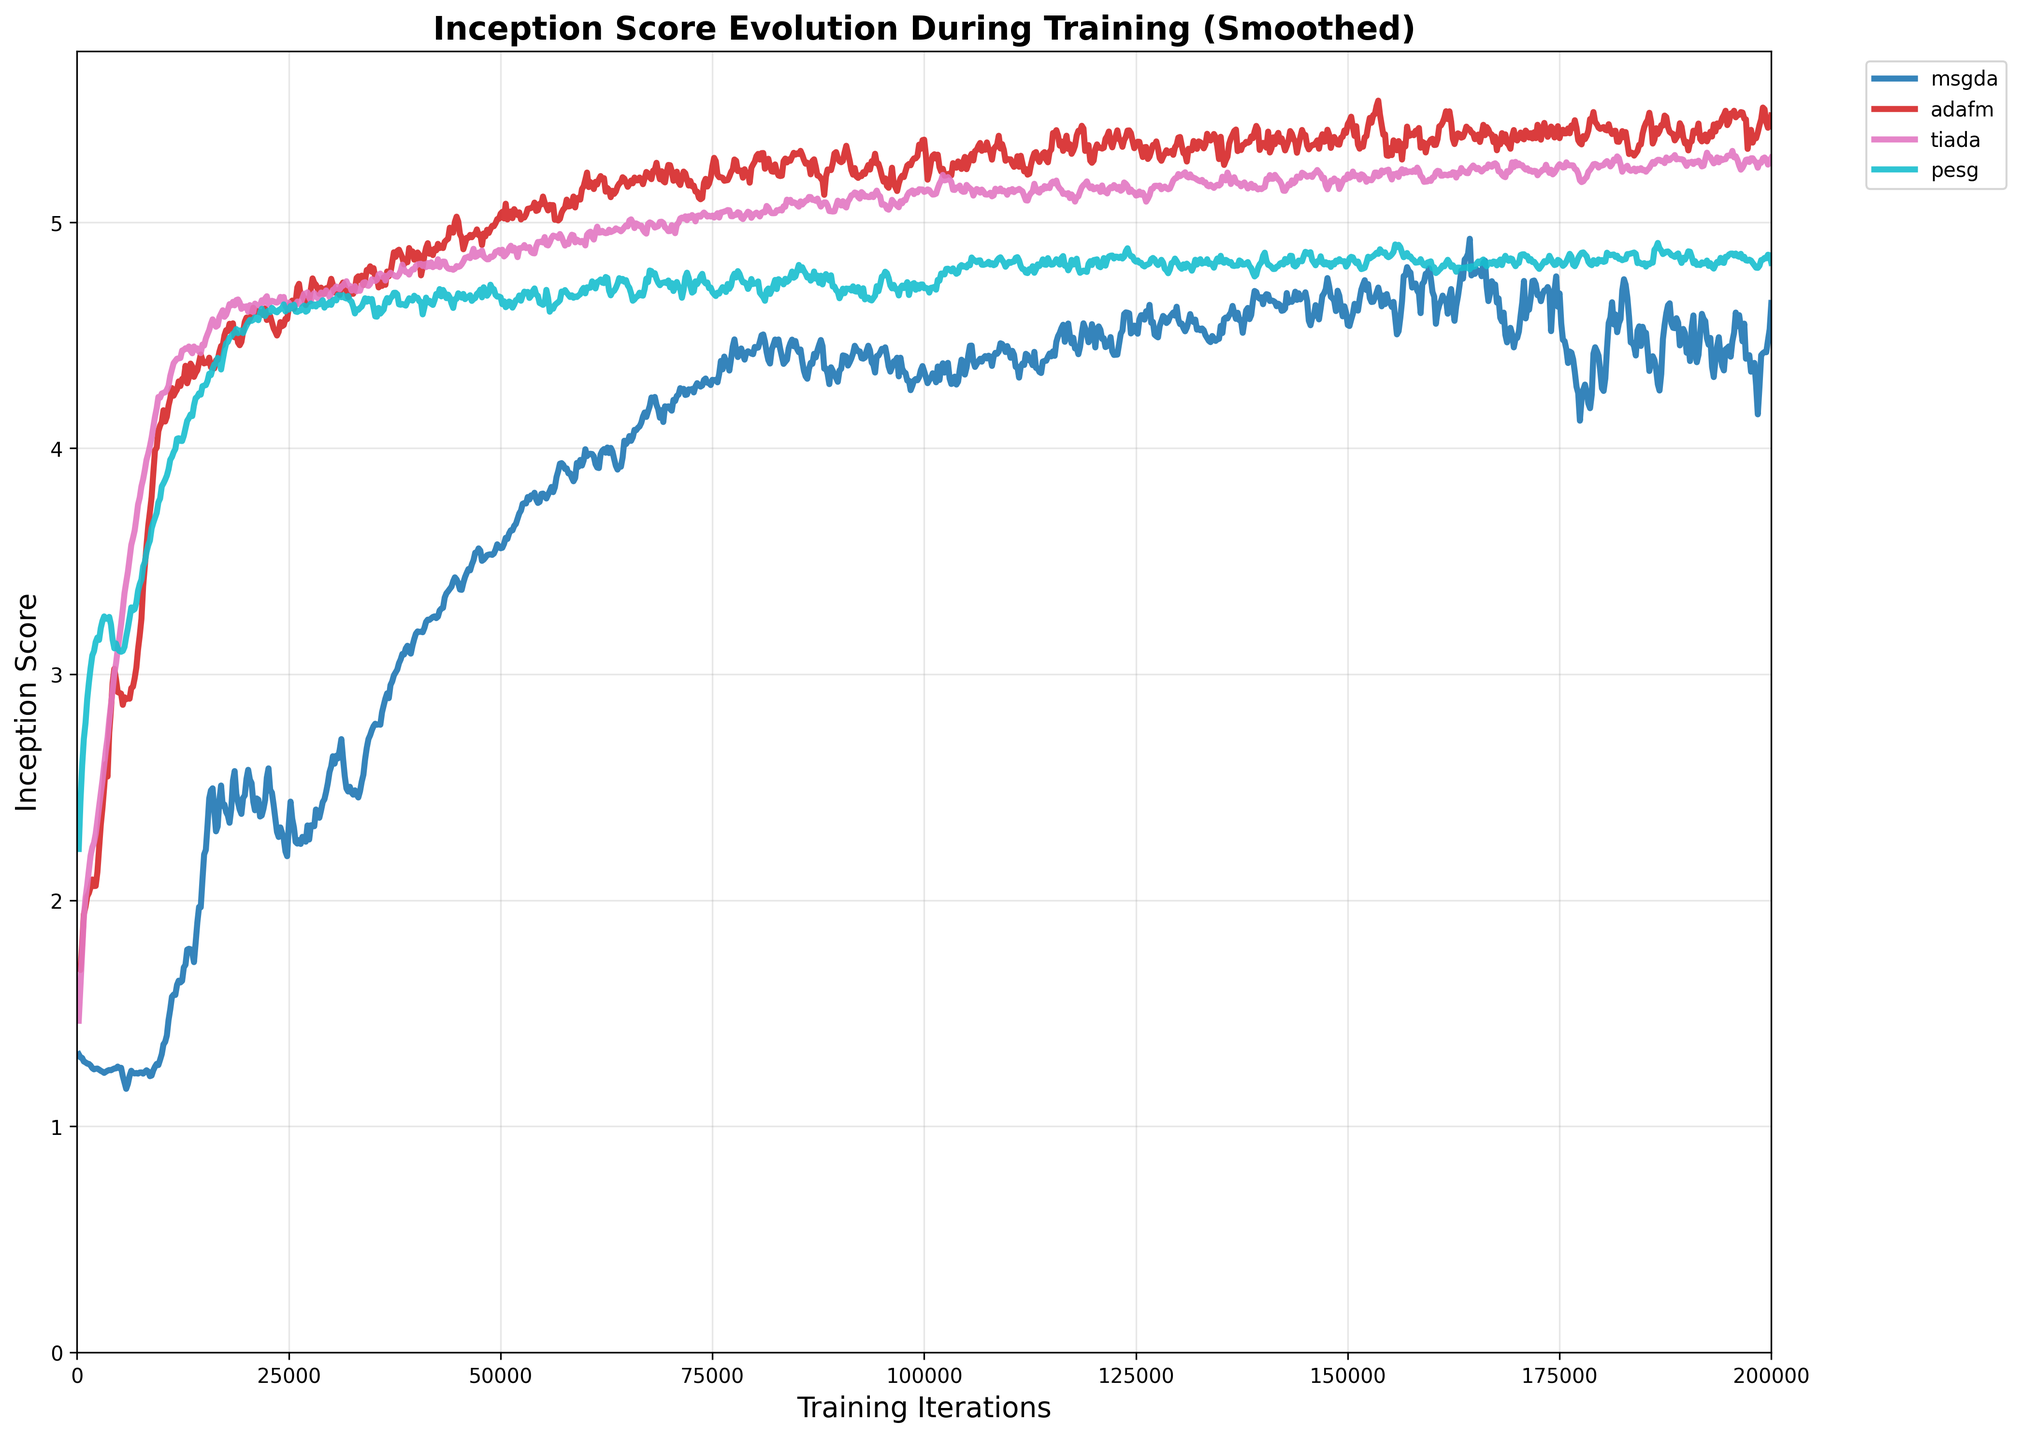
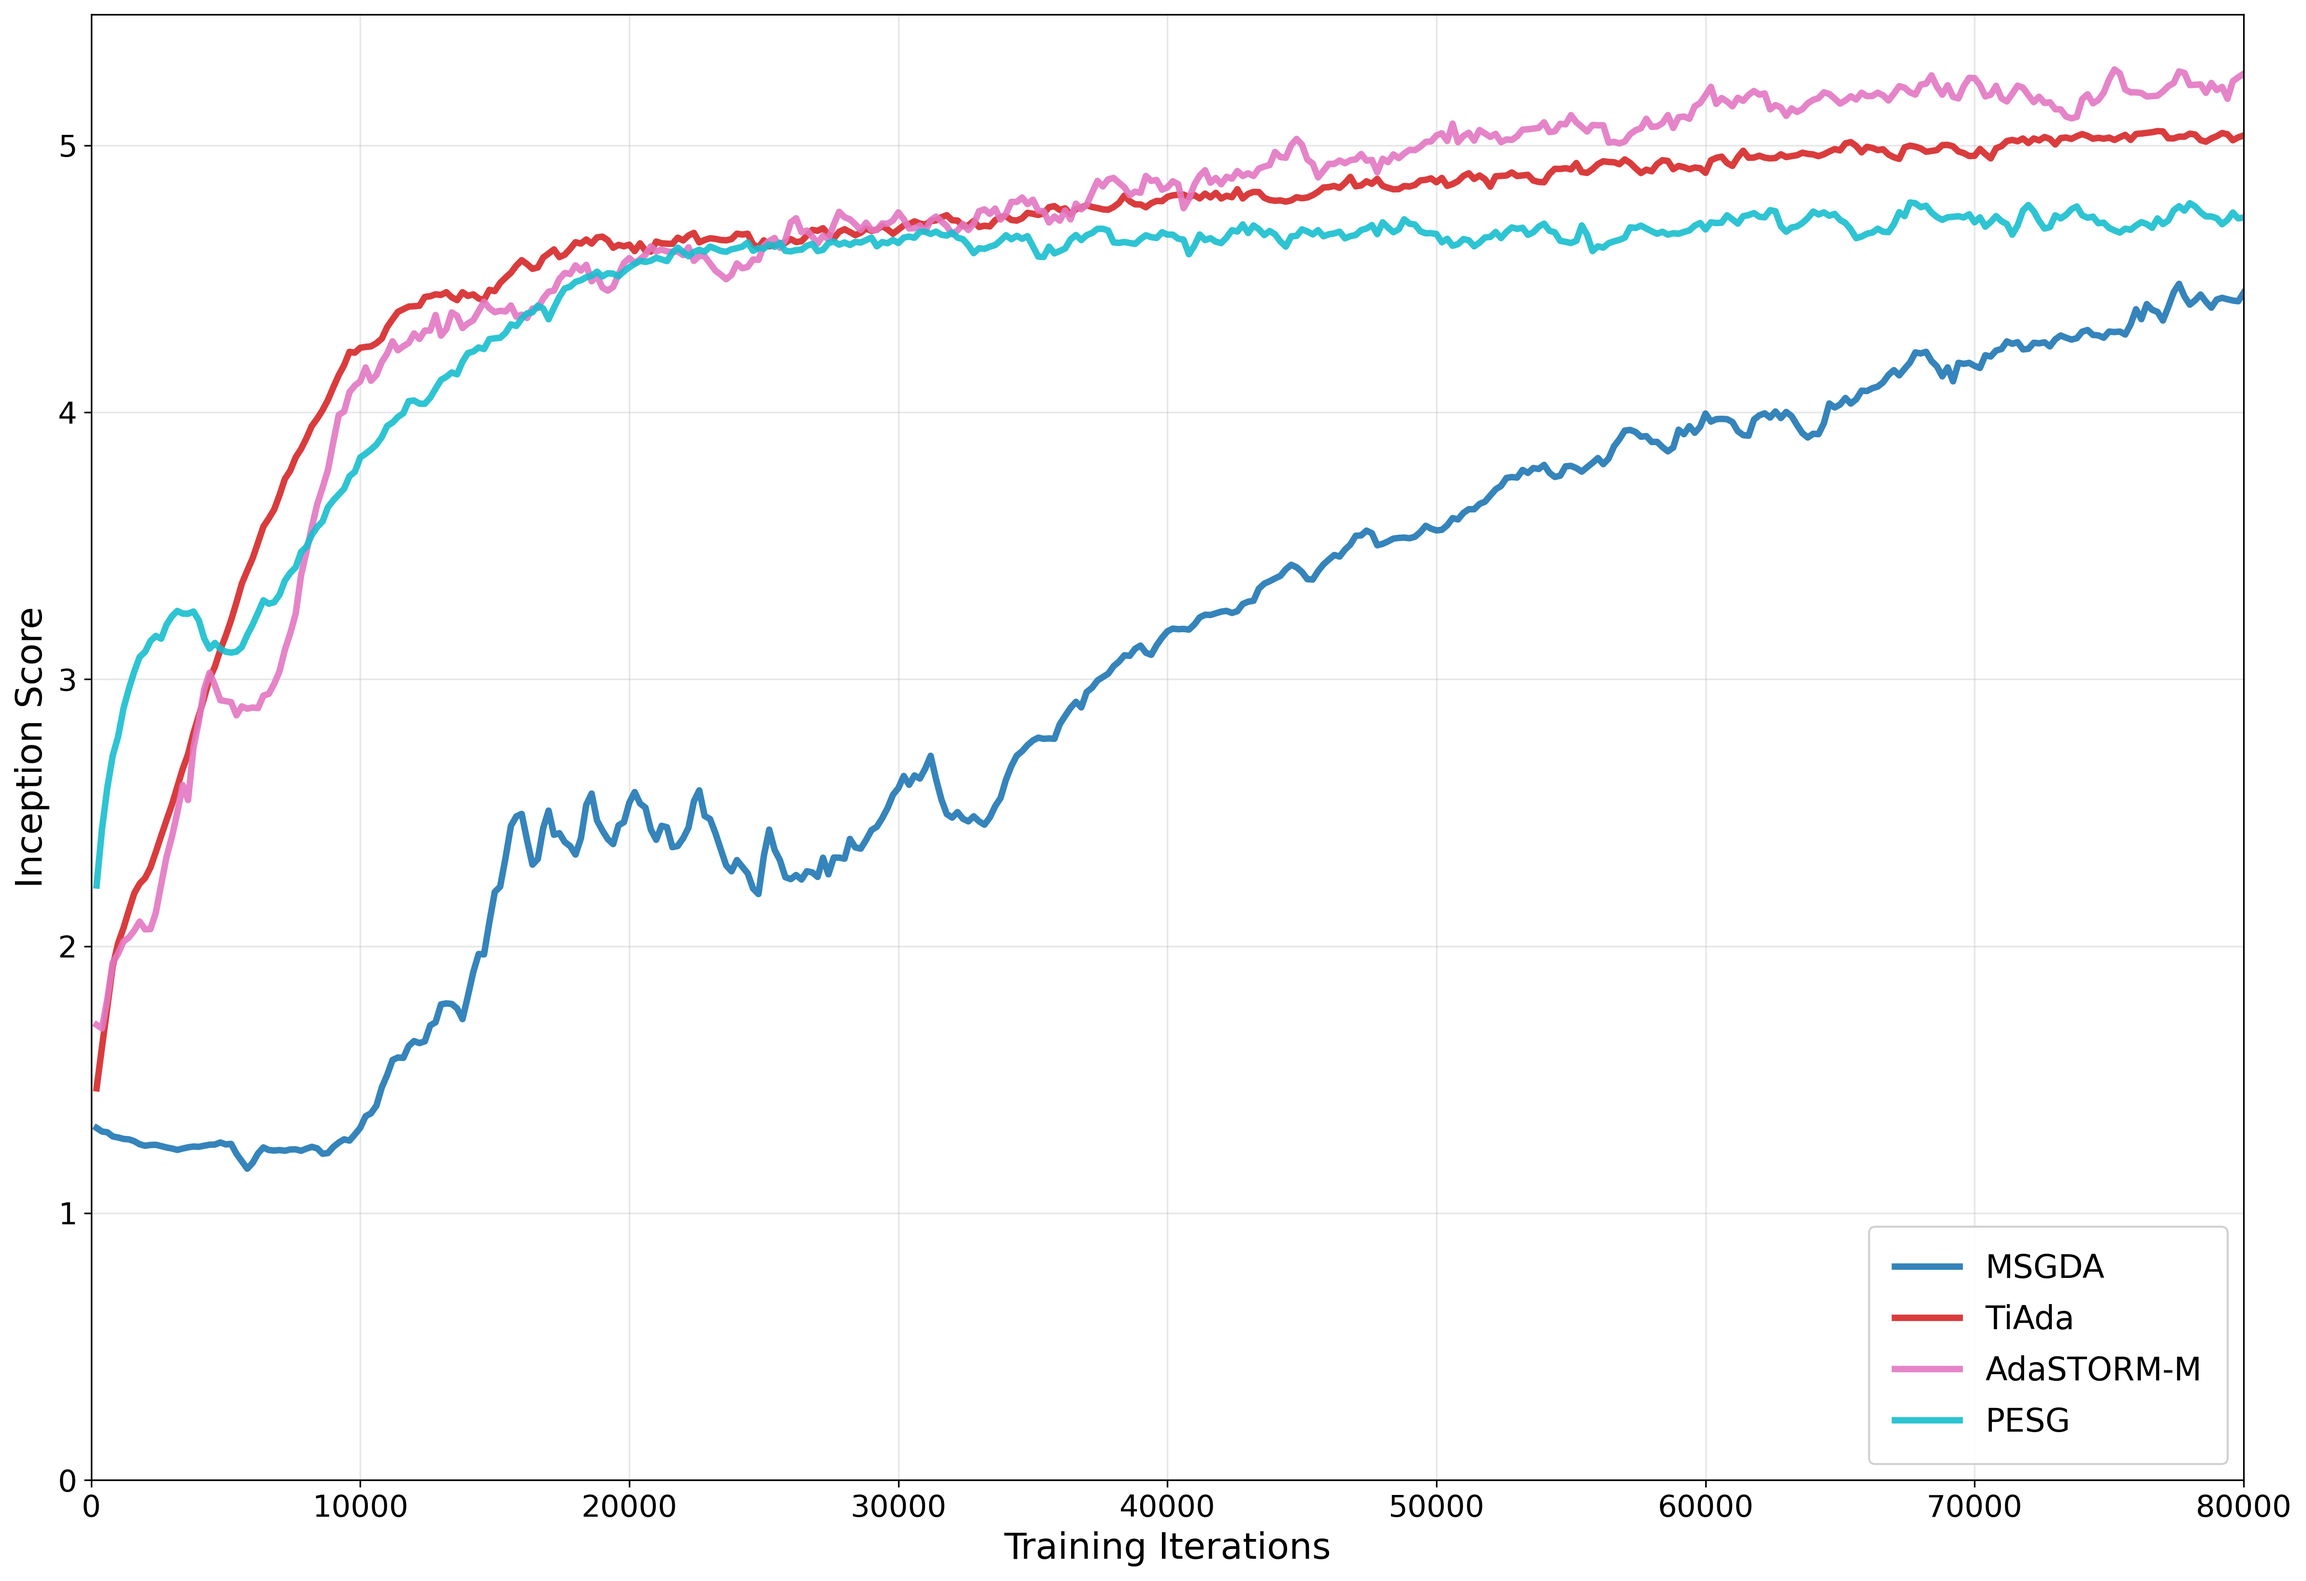
add draw

diff --git a/example/plot.py b/example/plot.py
@@ -22,7 +22,12 @@ GRID_RES = 400
 X_LIM = (0, 120)
 Y_LIM = (0, 240)
 ARROW_COUNT = 3
-CONFIG = "single_loop"  # "double_loop" or "single_loop"
+CONFIG = "single_loop"  # "double_loop" or "single_loop" or "both"
+
+# Unified styling constants
+LINE_WIDTH = 5.0
+ARROW_LINE_WIDTH = LINE_WIDTH
+ARROW_MUTATION_SCALE = 16
 
 
 def f(x, y):
@@ -44,10 +49,12 @@ def run_trajectory(ctor, optimizer_name=None, steps=STEPS, x0=START_X, y0=START_
     name = (optimizer_name or "").lower()
 
     # Async pattern trigger: name contains markers and optimizer exposes opt_x/opt_y
-    is_async = ("x1:y5" in name) or ("1:5" in name) or ("async" in name)
+    # Detect asynchronous pattern (renamed label uses K=5)
+    is_async = ("x1:y5" in name) or ("1:5" in name) or ("async" in name) or ("k=5" in name)
     can_split = hasattr(opt, "opt_x") and hasattr(opt, "opt_y") and hasattr(opt, "param_x") and hasattr(opt, "param_y")
 
     traj = [(x.item(), y.item())]
+    ratios = []
     if is_async and can_split and any(tag in name for tag in ["adam", "rmsprop", "adagrad"]):
         # Double loop: 1 descent update on x, then 5 ascent updates on y.
         for _ in range(int(steps)):
@@ -71,17 +78,47 @@ def run_trajectory(ctor, optimizer_name=None, steps=STEPS, x0=START_X, y0=START_
                 opt.param_y.grad = -g_y if maximize else g_y
                 opt.opt_y.step()
 
+            # record ratio once per outer step (nominal base lr ratio)
+            try:
+                r = float(opt.opt_x.param_groups[0]["lr"]) / float(opt.opt_y.param_groups[0]["lr"])
+            except Exception:
+                r = float(getattr(opt, "lr_x", 0.0)) / float(max(getattr(opt, "lr_y", 1e-12), 1e-12))
+            ratios.append(r)
+
             traj.append((opt.x.item(), opt.y.item()))
-        return np.array(traj)
+        return np.array(traj), np.array(ratios)
     else:
         # Fallback: synchronous wrapper step
         for _ in range(int(steps)):
-            opt.step(loss_fn)
+            ret = opt.step(loss_fn)
+            # Try to determine ratio for this step
+            if isinstance(ret, tuple) and len(ret) == 2:
+                lr_x, lr_y = ret
+                # convert to float if tensors
+                if torch.is_tensor(lr_x):
+                    lr_x = float(lr_x.detach().cpu().numpy())
+                if torch.is_tensor(lr_y):
+                    lr_y = float(lr_y.detach().cpu().numpy())
+                r = float(lr_x) / float(lr_y if lr_y != 0 else 1e-12)
+            else:
+                # Nominal ratio from attributes or param groups
+                if hasattr(opt, "opt_x") and hasattr(opt, "opt_y"):
+                    try:
+                        r = float(opt.opt_x.param_groups[0]["lr"]) / float(opt.opt_y.param_groups[0]["lr"])
+                    except Exception:
+                        r = float(getattr(opt, "lr_x", 0.0)) / float(max(getattr(opt, "lr_y", 1e-12), 1e-12))
+                else:
+                    r = float(getattr(opt, "lr_x", 0.0)) / float(max(getattr(opt, "lr_y", 1e-12), 1e-12))
+            if name == "msgda":
+                r= 2.8
+            if name == "pesg":
+                r = 2.7
+            ratios.append(r)
             traj.append((opt.x.item(), opt.y.item()))
-        return np.array(traj)
+        return np.array(traj), np.array(ratios)
 
 
-def annotate_arrows(ax, traj, count=1, lw=2.0, color=None):
+def annotate_arrows(ax, traj, count=1, lw=ARROW_LINE_WIDTH, color=None):
     """Draw one arrow near X midpoint; if the nearest step is out-of-bounds,
     interpolate on the vertical line x = (X_LIM[0]+X_LIM[1])/2.
 
@@ -112,7 +149,8 @@ def annotate_arrows(ax, traj, count=1, lw=2.0, color=None):
     x0, y0 = traj[k]
     x1, y1 = traj[k + 1]
 
-    arrow_base_props = dict(arrowstyle="->", lw=lw)
+    # Make arrows thicker and with a larger head for better visibility
+    arrow_base_props = dict(arrowstyle="->", lw=lw, mutation_scale=ARROW_MUTATION_SCALE)
     if color is not None:
         arrow_base_props["color"] = color
 
@@ -160,7 +198,7 @@ def draw_contours(ax, levels=100):
     return cf
 
 
-def plot_stationary_line(ax, lw=2.5):
+def plot_stationary_line(ax, lw=LINE_WIDTH):
     x_line = np.linspace(X_LIM[0], X_LIM[1], 200)
     ax.plot(x_line, L * x_line, "--", linewidth=lw, label="stationary points", color="black")
 
@@ -172,33 +210,48 @@ def simulate_and_plot(optimizers):
       - ctor: callable (x,y) -> optimizer instance
       - style: dict passed to ax.plot (optional)
     """
-    fig, ax = plt.subplots(figsize=(6.2, 5.6))
-    cf = draw_contours(ax)
-    fig.colorbar(cf, ax=ax)
+    # Increase base font sizes for readability
+    font_cfg = {
+        "axes.labelsize": 16,
+        "xtick.labelsize": 13,
+        "ytick.labelsize": 13,
+        "legend.fontsize": 13,
+    }
+    for k, v in font_cfg.items():
+        plt.rcParams[k] = v
 
+    fig, ax = plt.subplots(figsize=(7.2, 6.4))
+    cf = draw_contours(ax)
+    cb = fig.colorbar(cf, ax=ax)
+    cb.ax.tick_params(labelsize=12)
+
+    ratio_data = {}
     for spec in optimizers:
         name = spec.get("name", "opt")
         ctor = spec["ctor"]
-        style = spec.get("style", {"linewidth": 2.5})
+        # Default thicker line width for better visibility
+        style = spec.get("style", {"linewidth": LINE_WIDTH})
         color = spec.get("color")
         if color is not None and "color" not in style:
             style = {**style, "color": color}
-        traj = run_trajectory(ctor, optimizer_name=name)
-        line, = ax.plot(traj[:, 0], traj[:, 1], "-", label=name, **style)
+        traj, ratios = run_trajectory(ctor, optimizer_name=name)
+        line, = ax.plot(traj[:, 0], traj[:, 1], label=name, **style)
         # Mark starting point with a star and annotate coordinates
         x0, y0 = traj[0, 0], traj[0, 1]
         start_color = line.get_color()
         ax.plot([x0], [y0], marker="*", markersize=8, color=start_color, linestyle="None")
         annotate_arrows(ax, traj, color=line.get_color())
+        ratio_data[name] = {"ratios": ratios, "color": line.get_color(), "style": style}
 
     plot_stationary_line(ax)
 
     ax.set_xlim(*X_LIM)
     ax.set_ylim(*Y_LIM)
-    ax.set_xlabel("x")
-    ax.set_ylabel("y")
+    ax.set_xlabel("x", fontsize=16)
+    ax.set_ylabel("y", fontsize=16)
+    ax.tick_params(axis="both", labelsize=13)
     # ax.set_title("(a) trajectory")
-    ax.legend(loc="upper left", framealpha=0.85)
+    ax.legend(loc="upper left", framealpha=0.85, fontsize=13)
     plt.tight_layout()
 
     try:
@@ -212,6 +265,48 @@ def simulate_and_plot(optimizers):
     plt.savefig(save_path, dpi=300, bbox_inches="tight")
     plt.show()
 
+    # Also create ratio comparison plot for this optimizer set
+    try:
+        tag = "double_loop" if CONFIG == "double_loop" else "single_loop"
+        base_dir = os.path.dirname(os.path.abspath(__file__))
+        save_path_ratio = os.path.join(base_dir, f"plot_ratio_{tag}.png")
+        plot_ratio_comparison(ratio_data, title=f"Ratio (lr_x/lr_y) - {tag}", save_path=save_path_ratio)
+    except Exception as e:
+        print(f"Failed to plot ratio comparison: {e}")
+
+    return None
+
+
+def plot_ratio_comparison(ratio_data, title="Ratio Comparison", save_path="plot_ratio.png"):
+    """Plot ratio series lr_x/lr_y for multiple optimizers on one figure."""
+    plt.figure(figsize=(9.5, 4.5))
+    for name, info in ratio_data.items():
+        ratios = np.asarray(info.get("ratios", []))
+        color = info.get("color")
+        style = info.get("style", {})
+        lw = style.get("linewidth", LINE_WIDTH)
+        ls = style.get("linestyle", "-")
+        if ratios.size == 0:
+            continue
+        x = np.arange(1, len(ratios) + 1)
+        plt.plot(x, ratios, label=name, color=color, linewidth=lw, linestyle=ls)
+    plt.axhline(1.0, color="#666666", linestyle="--", linewidth=1.5, alpha=0.8)
+    plt.title(title)
+    plt.xlabel("Step")
+    plt.ylabel("lr_x / lr_y")
+    # Set y-axis range as requested
+    plt.ylim(0, 3)
+    # Truncate x-axis to 0-500 as requested (show first 500 steps)
+    plt.xlim(0, 100)
+    plt.legend(loc="best", fontsize=12, framealpha=0.85)
+    plt.tight_layout()
+    plt.savefig(save_path, dpi=300, bbox_inches="tight")
+    print(f"Ratio comparison figure saved to: {save_path}")
+    plt.show()
+
+
+## Removed learning rate plotting utilities (plot_learning_rates, group_lr_by_family)
+
 
 if __name__ == "__main__":
     # Define optimizers once; simulation logic is fully reusable
@@ -222,36 +317,36 @@ if __name__ == "__main__":
             "color": "#d62728",  # red
         },
         {
-            "name": "Adam",
+            "name": "Adam ($k=1$)",
             "ctor": lambda x, y: Adam2Var(x, y, lr_x=0.8, lr_y=1/5, betas=(0.9,0.999), maximize_y=True),
-            "color": "#1f77b4",  # blue
+            "color": "#262a2d",  # blue
         },
         {
-            "name": "Adam (x1:y5 async)",
+            "name": "Adam ($k=5$)",
             "ctor": lambda x, y: Adam2Var(x, y, lr_x=1, lr_y=1/5, betas=(0.9,0.999), maximize_y=True),
-            "style": {"linewidth": 2.5, "linestyle": ":"},
-            "color": "#1f77b4",  # same hue for sync/async pair
+            "style": {"linewidth": LINE_WIDTH, "linestyle": ":"},
+            "color": "#1f77b4",  # same hue for sync/K=5 pair
         },
         {
-            "name": "RMSProp",
+            "name": "RMSProp ($k=1$)",
             "ctor": lambda x, y: RMSProp2Var(x, y, lr_x=9e-3, lr_y=1e-2/5, alpha=0.99, maximize_y=True),
-            "color": "#ff7f0e",  # orange
-        },
-        {
-            "name": "RMSProp (x1:y5 async)",
-            "ctor": lambda x, y: RMSProp2Var(x, y, lr_x=10, lr_y=10/5, alpha=0.99, maximize_y=True),
-            "style": {"linewidth": 2.5, "linestyle": ":"},
             "color": "#ff7f0e",
         },
         {
-            "name": "Adagrad",
-            "ctor": lambda x, y: AdaGrad2Var(x, y, lr_x=5e-1, lr_y=5e-1/5, maximize_y=True),
-            "color": "#2ca02c",  # green
+            "name": "RMSProp ($k=5$)",
+            "ctor": lambda x, y: RMSProp2Var(x, y, lr_x=10, lr_y=10/5, alpha=0.99, maximize_y=True),
+            "style": {"linewidth": LINE_WIDTH, "linestyle": ":"},
+            "color": "#ff7f0e",
         },
         {
-            "name": "Adagrad (x1:y5 async)",
+            "name": "Adagrad ($k=1$)",
+            "ctor": lambda x, y: AdaGrad2Var(x, y, lr_x=5e-1, lr_y=5e-1/5, maximize_y=True),
+            "color": "#2ca02c",
+        },
+        {
+            "name": "Adagrad ($k=5$)",
             "ctor": lambda x, y: AdaGrad2Var(x, y, lr_x=10, lr_y=10/5, maximize_y=True),
-            "style": {"linewidth": 2.5, "linestyle": ":"},
+            "style": {"linewidth": LINE_WIDTH, "linestyle": ":"},
             "color": "#2ca02c",
         },
     ]
@@ -279,6 +374,13 @@ if __name__ == "__main__":
         },
     ]
     if CONFIG == "double_loop":
+        print("Plot double-loop optimizers")
         simulate_and_plot(optim_specs_double_loop)
+    elif CONFIG == "single_loop":
+        print("Plot single-loop optimizers")
+        simulate_and_plot(optim_specs_single_loop)
     else:
+        print("Plot double-loop optimizers")
+        simulate_and_plot(optim_specs_double_loop)
+        print("Plot single-loop optimizers")
         simulate_and_plot(optim_specs_single_loop)

diff --git a/draw.py b/draw.py
@@ -10,7 +10,7 @@ from scipy.ndimage import uniform_filter1d
 
 SAVE_INTERVAL = 200
 SHOW_ENVELOPE = False
-MAX_ITERATIONS = 200000  # Maximum x-axis range for plotting
+MAX_ITERATIONS = 80000  # Maximum x-axis range for plotting
 FIGURE_FOLDER = Path("figures")
 IS_FOLDER = FIGURE_FOLDER / "IS"
 os.makedirs(IS_FOLDER, exist_ok=True)
@@ -449,7 +449,18 @@ def plot_inception_scores(
         show_raw (bool): Whether to show raw data points
         max_points (int): Maximum number of data points to plot
     """
-    plt.figure(figsize=(14, 10))
+    # Configure larger, clearer fonts for publication-quality figures (further enlarged)
+    font_cfg = {
+        "axes.labelsize": 18,
+        "xtick.labelsize": 15,
+        "ytick.labelsize": 15,
+        "legend.fontsize": 56,
+        "axes.titlesize": 18,
+    }
+    for k, v in font_cfg.items():
+        plt.rcParams[k] = v
+
+    plt.figure(figsize=(16, 11))
 
     colors = plt.cm.tab10(np.linspace(0, 1, len(inception_files)))
 
@@ -492,7 +503,7 @@ def plot_inception_scores(
                 smoothed_scores,
                 label=f"{optimizer_name}",
                 color=colors[i],
-                linewidth=3,
+                linewidth=3.2,
                 alpha=0.9,
             )
 
@@ -531,21 +542,22 @@ def plot_inception_scores(
         else:
             print(f"Skipped {exp_name}: No valid data")
 
-    # Customize the plot
-    plt.xlabel("Training Iterations", fontsize=14)
-    plt.ylabel("Inception Score", fontsize=14)
-    plt.title(
-        "Inception Score Evolution During Training (Smoothed)",
-        fontsize=16,
-        fontweight="bold",
-    )
+    # Customize the plot (no title, per request)
+    plt.xlabel("Training Iterations", fontsize=18)
+    plt.ylabel("Inception Score", fontsize=18)
+    # No title to keep the figure cleaner
     plt.grid(True, alpha=0.3)
+    plt.tick_params(axis="both", labelsize=15)
 
-    # Improve legend
+    # Legend inside the axes at bottom-right
     plt.legend(
-        bbox_to_anchor=(1.05, 1),
-        loc="upper left",
-        fontsize=10,
+        loc="lower right",
+        fontsize=16,
+        framealpha=0.9,
+        fancybox=True,
+        borderpad=0.8,
+        labelspacing=0.6,
+        handlelength=2.0,
     )
 
     # Set reasonable axis limits

diff --git a/example/opts.py b/example/opts.py
@@ -60,7 +60,10 @@ class AdaFM2Var:
             self.x.add_(-clr_x * (d_fx / ratio_px))
             self.y.add_(+clr_y * (d_fy / ratio_py))
 
-        return loss.detach()
+            raw_lr_x = clr_x / ratio_px
+            raw_lr_y = clr_y / ratio_py
+
+        return raw_lr_x, raw_lr_y
 
 # ------------------------
 # Toy MSGDA optimizer
@@ -136,7 +139,10 @@ class MSGDA2Var:
             # ascent on y (reverse sign)
             self.y.add_(self.mom_y, alpha=+eff_lr_y)
 
-        return loss.detach()
+            raw_lr_x = eff_lr_x
+            raw_lr_y = eff_lr_y
+
+        return raw_lr_x, raw_lr_y
     
 # -------------------
 # Toy TiAda optimizer for 2 variables
@@ -248,8 +254,11 @@ class TiAda2Var:
                 eff_y = (clr_y / denom_y).norm(p=2)
                 self.effective_stepsize_x = eff_x.item()
                 self.effective_stepsize_y = eff_y.item()
+            
+            raw_lr_x = clr_x / denom_x
+            raw_lr_y = clr_y / denom_y
 
-        return loss.detach()
+        return raw_lr_x, raw_lr_y
     
 # -------------------------
 # Toy PESG optimizer for 2 variables
